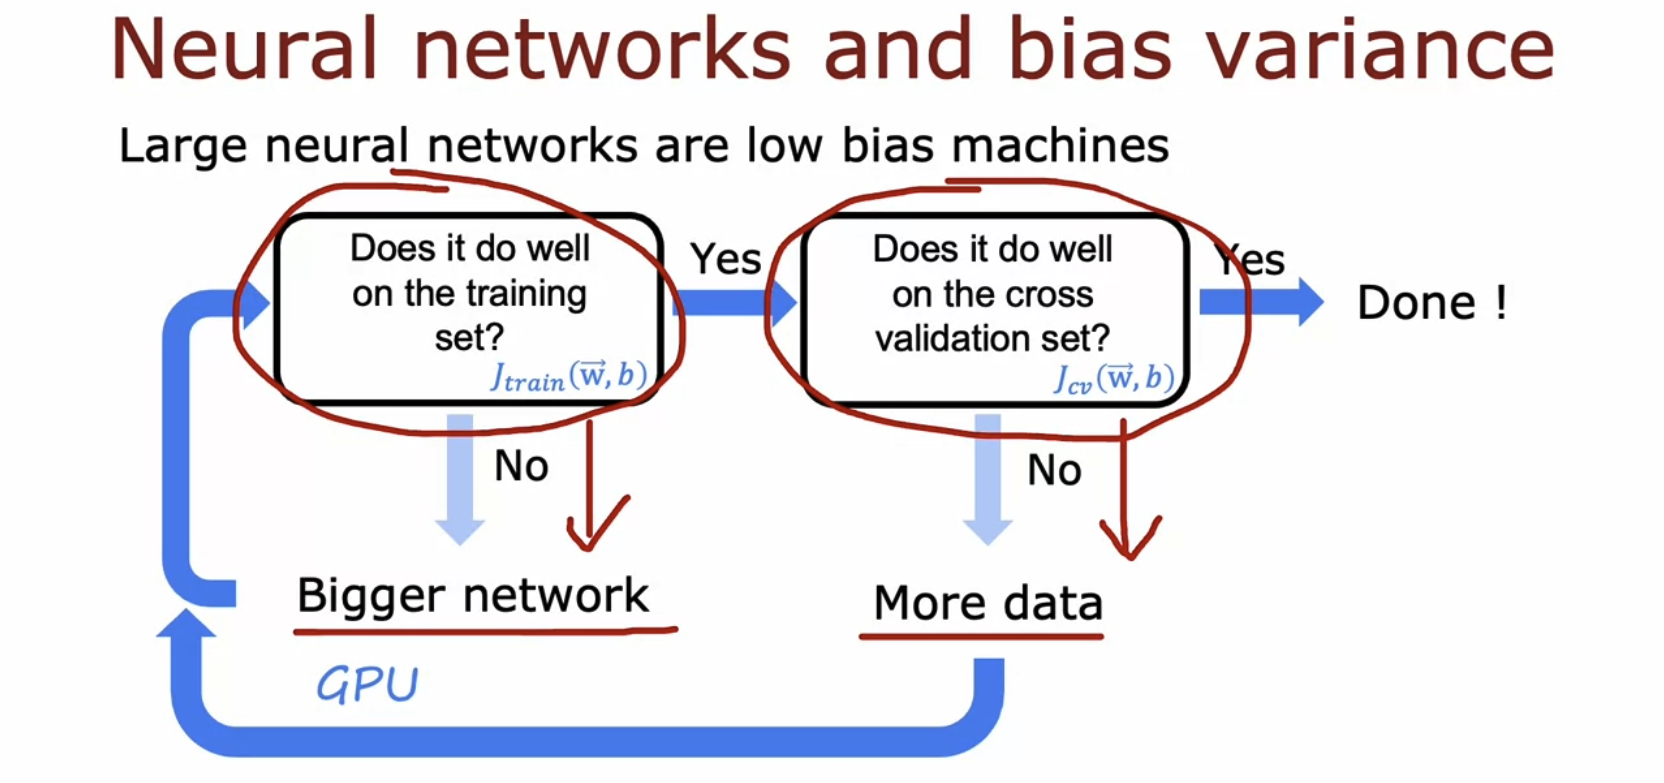
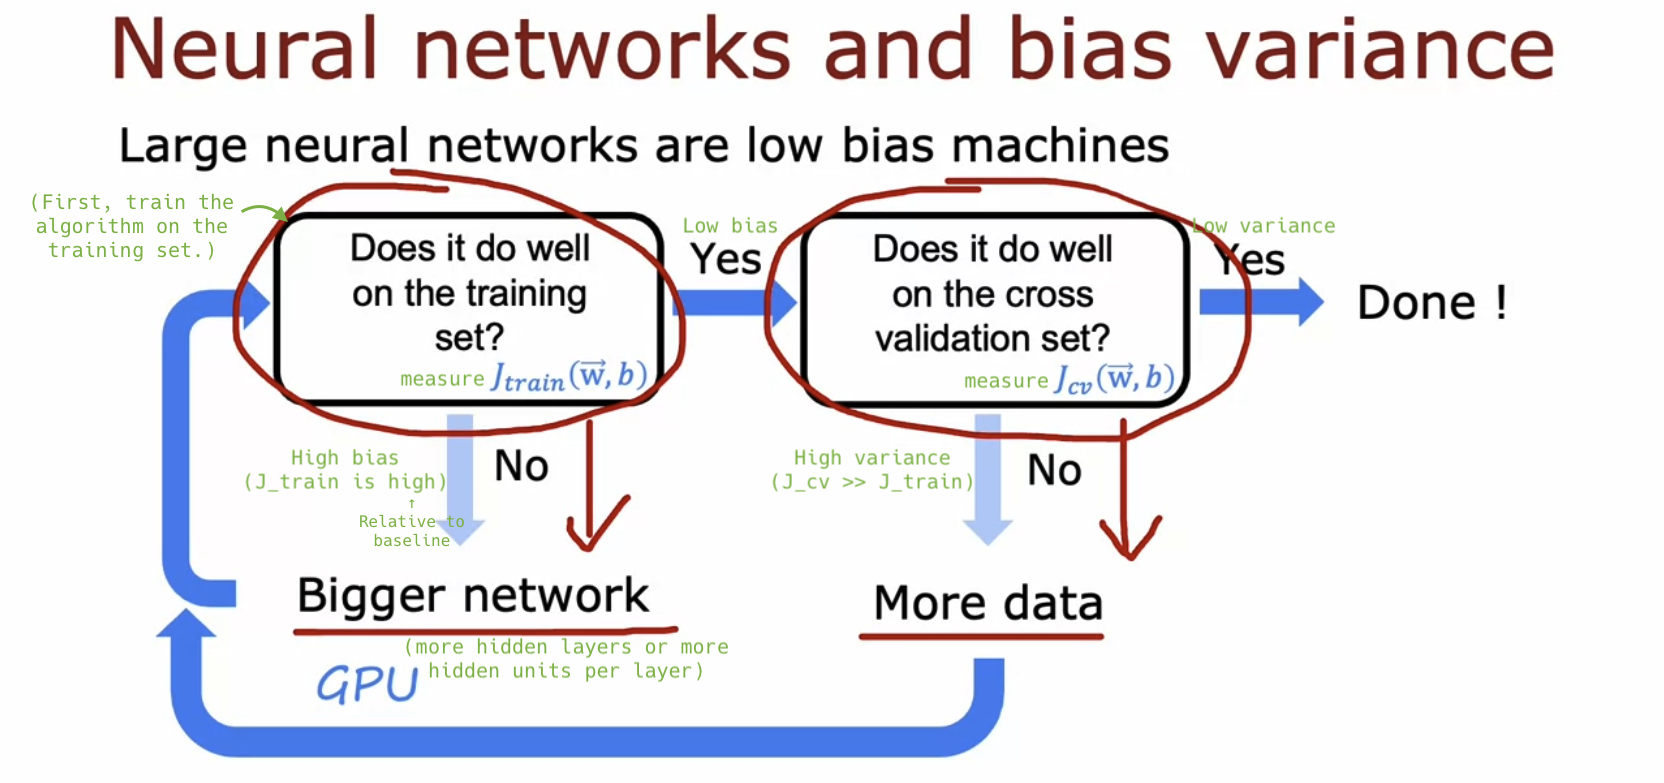
feat: take notes

diff --git a/s1_machine_learning_specialization/c2_advanced_learning_algorithms/w3_advice_for_applying_machine_learning/03_bias_and_variance/readme.md b/s1_machine_learning_specialization/c2_advanced_learning_algorithms/w3_advice_for_applying_machine_learning/03_bias_and_variance/readme.md
@@ -126,9 +126,16 @@
 
   ![alt text](resources/notes/14.png)
 
-- But today, **neural networks**, when linked with **big data**, can address both high bias and high variance in a new way (not tradeoff).
+- (So long as your training set is **not enormous**,) if you **make** your neural network **large** enough, you can **lower bias**, i.e, you can almost always **fit** your **training set** well.
 
-- So long as your training set is **not enormous**, it turns out that **large** neural networks are **low bias** machines, i.e, you can almost always fit your **training set** well.
+  - This property leads to a new way to reduce bias or reduce variance **as needed** without needing to really tradeoff between them.
 
+- (If applicable) A very powerful procedure:
+
+  ![alt text](resources/notes/15.png)
+
+  ![alt text](resources/notes/16.png)
+
+  ![alt text](resources/notes/17.png)
 
 ## Optional Lab: Diagnosing Bias and Variance
